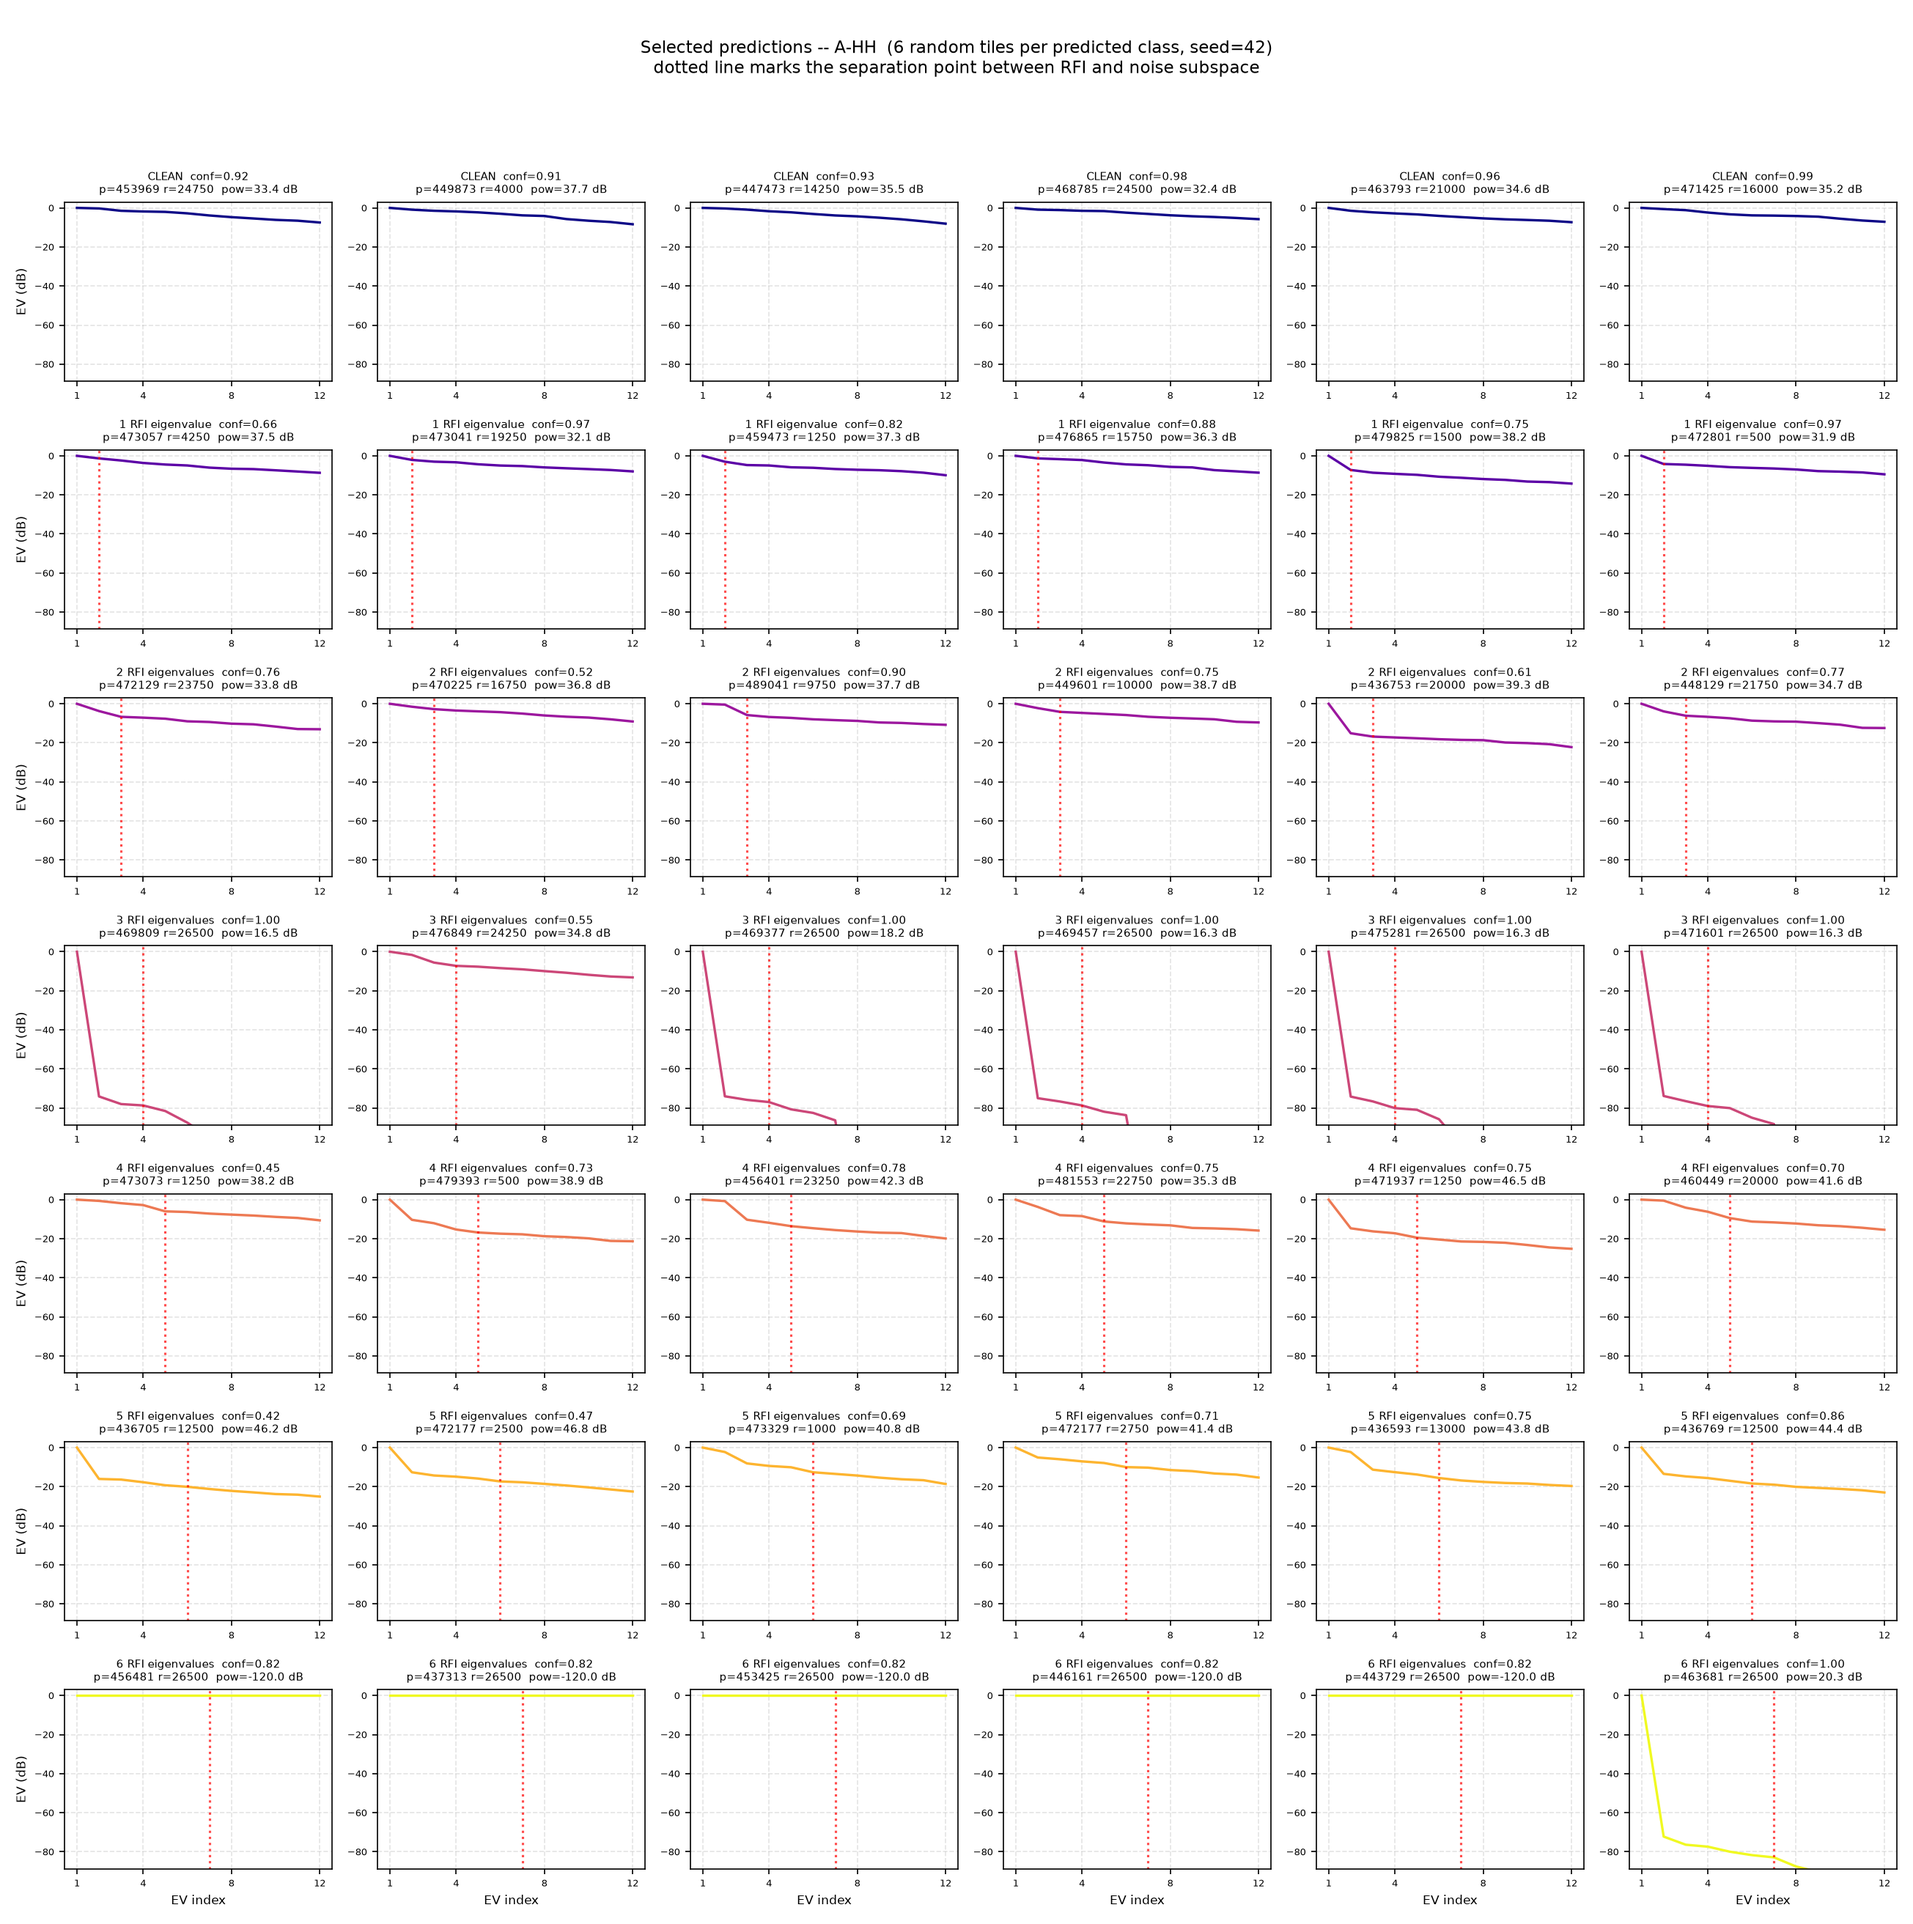
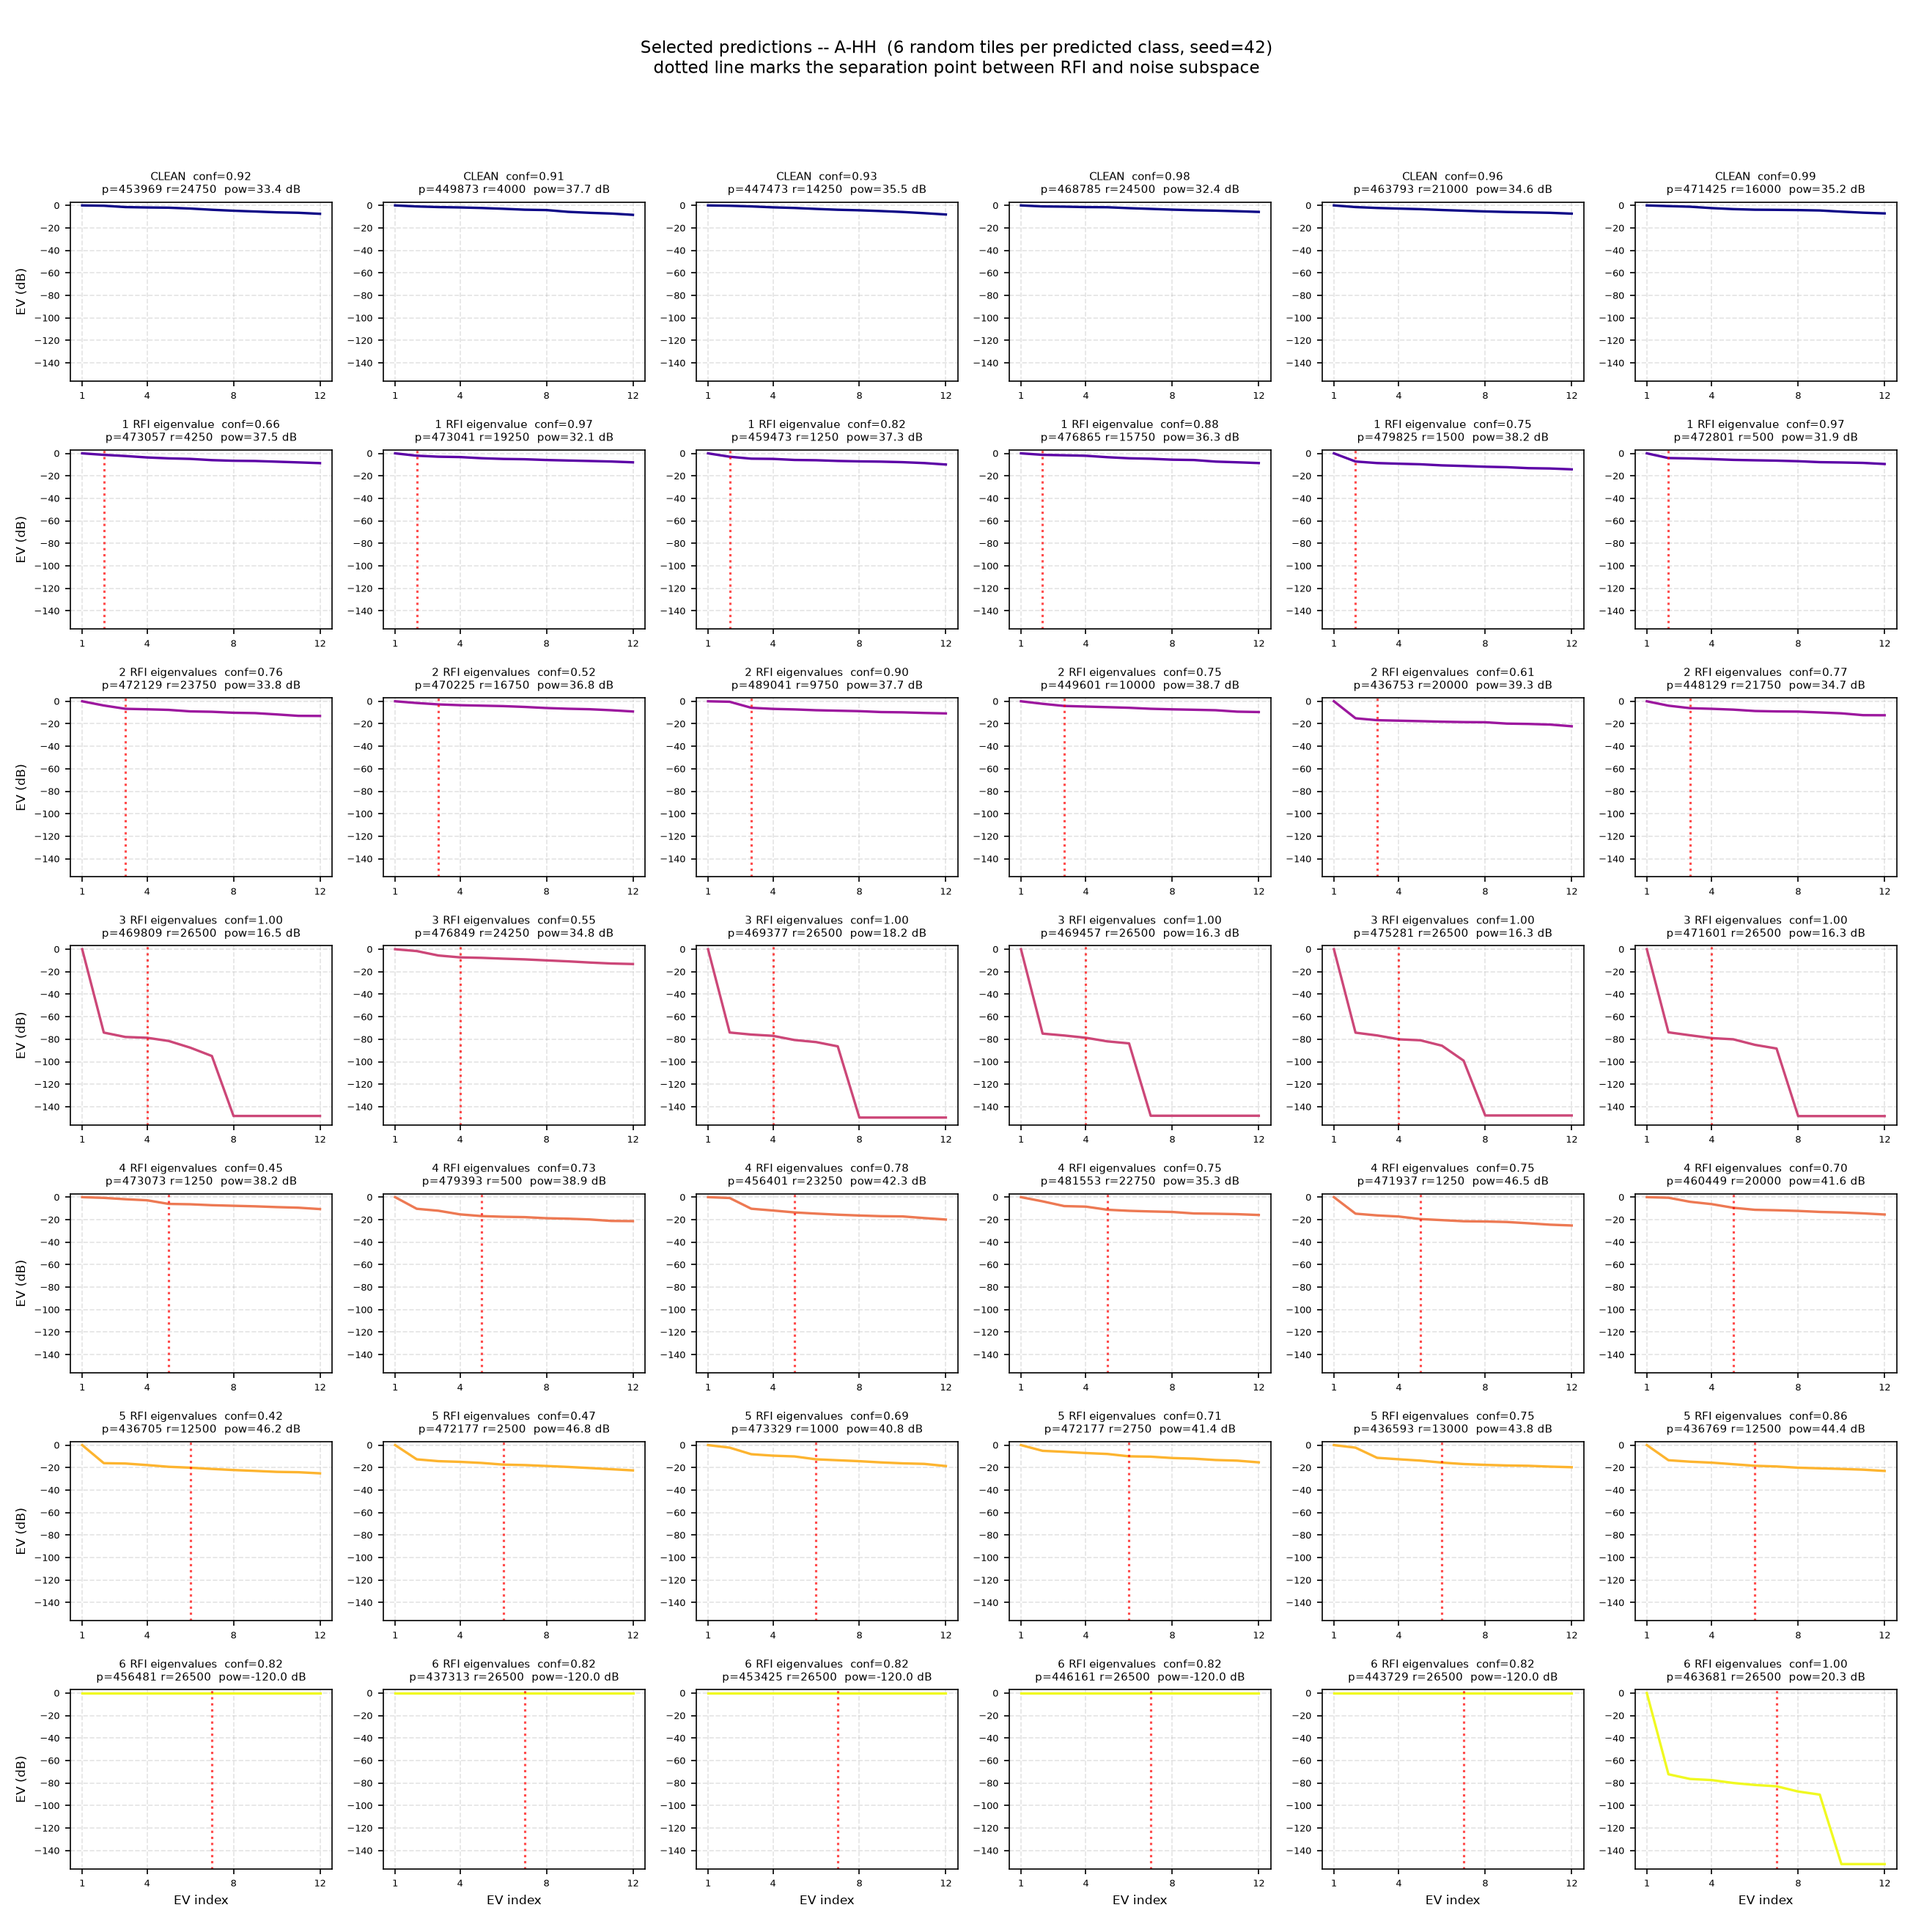
update plotter

diff --git a/replot_predictions.py b/replot_predictions.py
@@ -391,8 +391,8 @@ def plot_selected_predictions(rec, out_dir, n_per_class, seed):
     cmap = cm.plasma
 
     sample_all = ev_db[rng.choice(len(knee), size=min(5000, len(knee)), replace=False)]
-    # Extend y-limits to ensure all 12 eigenvalues are visible
-    ylim = [float(np.percentile(sample_all.ravel(), 0.1)) - 5.0, 3.0]
+    # Use low percentile to ensure all 12 eigenvalues are visible
+    ylim = [float(np.percentile(sample_all.ravel(), 0.01)) - 5.0, 3.0]
 
     n_rows, n_cols = len(present), n_per_class
     fig, axes = plt.subplots(n_rows, n_cols,

diff --git a/score_scene.py b/score_scene.py
@@ -712,7 +712,8 @@ def plot_selected_predictions(rec, out_dir, n_per_class, seed):
 
     # Shared y-range so panels are directly comparable to each other
     sample_all = ev_db[rng.choice(len(knee), size=min(5000, len(knee)), replace=False)]
-    ylim = [float(np.percentile(sample_all, 0.5)) - 3.0, 3.0]
+    # Use low percentile to ensure all 12 eigenvalues are visible
+    ylim = [float(np.percentile(sample_all.ravel(), 0.01)) - 5.0, 3.0]
 
     n_rows, n_cols = len(present), n_per_class
     fig, axes = plt.subplots(n_rows, n_cols,
